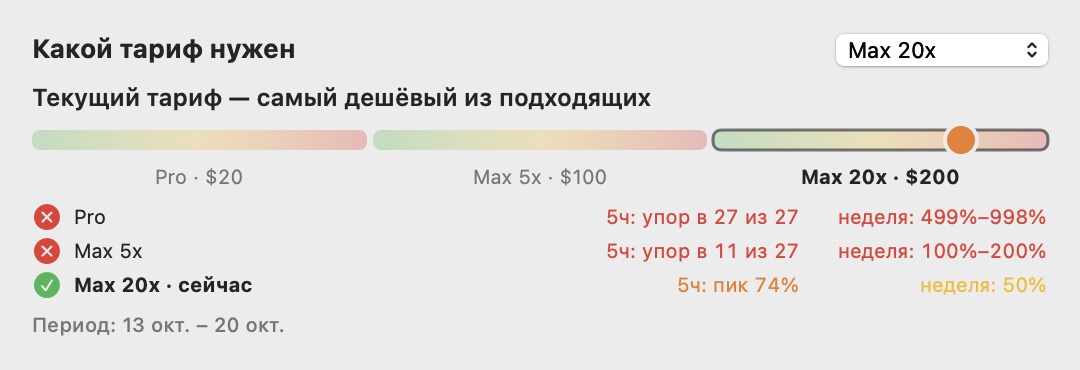
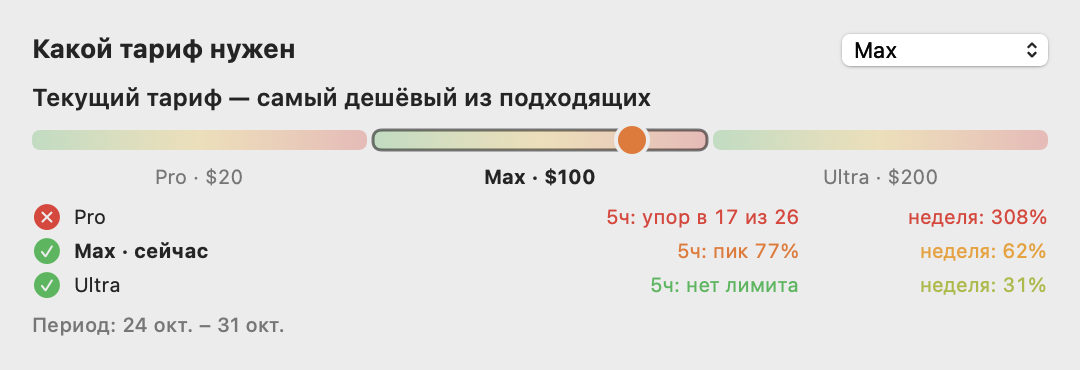
Follow the Ultra plan: no 5-hour row, published weekly sizes, a Fable counter
Anthropic renamed Max 5x to Max and Max 20x to Ultra and lifted the
5-hour limit on verified Ultra accounts, so the usage endpoint now
answers "five_hour": null and the row stayed on a dash. A poll without
that window now drops the row from the menu bar and the panel, and the
row comes back if the API reports the window again.

The plan comparison uses the new names, with raw values kept so settings
and recorded peaks still load. Weekly sizes are published now (Max 5x,
Ultra 10x of Pro), so weekly estimates are single numbers instead of
ranges. Ultra is checked by the week alone. With no 5-hour windows being
recorded, the caption says the comparison rests on old measurements or
on the week, and so does the verdict once none are left.

The weekly limit on Fable comes from the `limits` rows. It gets a row in
the panel and, with no 5-hour limit, the free line in the menu bar.

diff --git a/Sources/ClaudeLimits/PopoverView.swift b/Sources/ClaudeLimits/PopoverView.swift
@@ -140,8 +140,13 @@ private struct LimitRows: View {
     var body: some View {
         VStack(alignment: .leading, spacing: 10) {
             Grid(alignment: .leading, horizontalSpacing: 12, verticalSpacing: 10) {
-                row("Сессия · 5 часов", model.snapshot?.fiveHour, length: LimitWindow.fiveHourLength, skipWeekends: false)
+                if !model.noFiveHourLimit {
+                    row("Сессия · 5 часов", model.snapshot?.fiveHour, length: LimitWindow.fiveHourLength, skipWeekends: false)
+                }
                 row("Неделя", model.snapshot?.sevenDay, length: LimitWindow.sevenDayLength, skipWeekends: model.skipWeekends)
+                if let fable = model.snapshot?.fable {
+                    row("Fable · неделя", fable, length: LimitWindow.sevenDayLength, skipWeekends: model.skipWeekends)
+                }
             }
             Toggle("Недельный темп без выходных", isOn: $model.skipWeekends)
                 .toggleStyle(.checkbox).font(.callout).foregroundStyle(.secondary)
@@ -343,7 +348,7 @@ private struct LiveSessionsView: View {
     }
 }
 
-// MARK: - Plan fit: recorded windows replayed on Pro / Max 5x / Max 20x, or on the Team seats
+// MARK: - Plan fit: recorded windows replayed on Pro / Max / Ultra, or on the Team seats
 
 private struct PlanPicker: View {
     @EnvironmentObject var model: AppModel
@@ -382,20 +387,17 @@ private struct PlanFitView: View {
     }
 
     /// Marker position 0...1: segment of the cheapest plan that fits, offset by how full it would be.
-    private func position(_ r: PlanReport, upper: Bool) -> Double {
+    private func position(_ r: PlanReport) -> Double {
         let n = Double(r.fits.count)
-        for (i, f) in r.fits.enumerated() {
-            let w = upper ? f.worst.upperBound : f.worst.lowerBound
-            if f.fiveOver == 0, w < 100 { return (Double(i) + w / 100) / n }
-        }
+        for (i, f) in r.fits.enumerated() where f.fits { return (Double(i) + f.worst / 100) / n }
         return 1
     }
 
     private func track(_ r: PlanReport) -> some View {
-        let lo = position(r, upper: false), hi = position(r, upper: true)
+        let pos = position(r)
         // Color by how full the marker's own plan would be; past the last plan it is red.
-        let seg = hi * Double(r.fits.count)
-        let color = Palette.color(hi >= 1 ? 1 : seg - seg.rounded(.down))
+        let seg = pos * Double(r.fits.count)
+        let color = Palette.color(pos >= 1 ? 1 : seg - seg.rounded(.down))
         return VStack(spacing: 4) {
             GeometryReader { g in
                 let w = g.size.width
@@ -410,15 +412,10 @@ private struct PlanFitView: View {
                         }
                     }
                     .frame(height: 10)
-                    if hi - lo > 0.005 {
-                        Capsule().fill(color.opacity(0.45))
-                            .frame(width: (hi - lo) * w, height: 6)
-                            .offset(x: lo * w)
-                    }
                     Circle().fill(color)
                         .overlay(Circle().stroke(Color(nsColor: .windowBackgroundColor), lineWidth: 2))
                         .frame(width: 16, height: 16)
-                        .offset(x: min(max(hi * w - 8, 0), w - 16))
+                        .offset(x: min(max(pos * w - 8, 0), w - 16))
                 }
             }
             .frame(height: 16)
@@ -441,16 +438,20 @@ private struct PlanFitView: View {
                 .font(.caption.weight(f.plan == r.current ? .bold : .regular))
             Spacer()
             Group {
-                if f.fiveOver > 0 {
+                if !f.plan.hasSessionLimit {
+                    Text("5ч: нет лимита").foregroundStyle(Palette.color(0))
+                } else if r.fiveWindows == 0 {
+                    Text("5ч: нет данных").foregroundStyle(.secondary)
+                } else if f.fiveOver > 0 {
                     Text("5ч: упор в \(f.fiveOver) из \(r.fiveWindows)").foregroundStyle(Palette.color(1))
                 } else {
                     Text("5ч: пик \(pct(f.fiveWorst))").foregroundStyle(Palette.color(f.fiveWorst / 100))
                 }
-                Text("неделя: \(pct(f.week))").foregroundStyle(Palette.color(f.week.upperBound / 100))
+                Text("неделя: \(pct(f.week))").foregroundStyle(Palette.color(f.week / 100))
                     .frame(width: 118, alignment: .trailing)
                     .help(r.current.isTeam
                           ? "Недельные лимиты мест Team не публикуются: взято то же соотношение, что для 5 часов, Premium = 5× Standard"
-                          : "Недельное соотношение тарифов не публикуется: для Max 20x взято 10–20× Pro, отсюда диапазон")
+                          : "")
             }
             .font(.caption.monospacedDigit())
         }
@@ -458,31 +459,24 @@ private struct PlanFitView: View {
 
     private func verdict(_ r: PlanReport) -> String {
         guard let best = r.cheapest else { return "Не хватает даже \(r.fits.last!.plan.title)" }
-        let maybe = r.fits.first { $0.fiveOver == 0 && $0.week.lowerBound < 100 }?.plan
-        var text: String
         if best.price < r.current.price {
-            text = "Хватило бы \(best.title) — экономия $\(r.current.price - best.price) в месяц"
-        } else if best == r.current {
-            text = "Текущий тариф — самый дешёвый из подходящих"
-        } else {
-            text = "По замерам нужен \(best.title)"
+            let scope = r.fiveWindows == 0 && best.hasSessionLimit ? " по неделе" : ""
+            return "Хватило бы \(best.title)\(scope) — экономия $\(r.current.price - best.price) в месяц"
         }
-        if let maybe, maybe.price < best.price {
-            text += ". Возможно, хватит и \(maybe.title): зависит от недельного лимита, его Anthropic не публикует"
-        }
-        return text
+        return best == r.current ? "Текущий тариф — самый дешёвый из подходящих" : "По замерам нужен \(best.title)"
     }
 
     private func caption(_ r: PlanReport) -> String {
         var text = "Период: \(Fmt.day.string(from: r.from)) – \(Fmt.day.string(from: model.now))"
-        if r.capped { text += ". Лимит доходил до 100% — реальная потребность выше" }
+        if r.capped { text += " · Лимит доходил до 100% — реальная потребность выше" }
+        // Without the limit the API reports no 5-hour usage, so no new windows reach the comparison.
+        if model.noFiveHourLimit {
+            text += " · Без 5-часового лимита окна не замеряются: сравнение \(r.fiveWindows > 0 ? "по старым замерам" : "только по неделе")"
+        }
         return text
     }
 
     private func pct(_ v: Double) -> String { v >= 10 ? "\(Int(v.rounded()))%" : String(format: "%.1f%%", v) }
-    private func pct(_ r: ClosedRange<Double>) -> String {
-        r.upperBound - r.lowerBound < 0.5 ? pct(r.upperBound) : "\(pct(r.lowerBound))–\(pct(r.upperBound))"
-    }
 }
 
 

diff --git a/Sources/ClaudeLimits/Plans.swift b/Sources/ClaudeLimits/Plans.swift
@@ -2,16 +2,17 @@ import Foundation
 
 /// Subscription plans and their limits measured in Pro units.
 /// Team seats are compared only with each other: a member can't move to a personal plan.
+/// Raw values predate the rename of Max 5x to Max and Max 20x to Ultra: settings and `windows.json` keep them.
 enum Plan: String, CaseIterable, Identifiable, Codable {
-    case pro, max5, max20, teamStandard, teamPremium
+    case pro, max = "max5", ultra = "max20", teamStandard, teamPremium
 
     var id: String { rawValue }
 
     var title: String {
         switch self {
         case .pro: return "Pro"
-        case .max5: return "Max 5x"
-        case .max20: return "Max 20x"
+        case .max: return "Max"
+        case .ultra: return "Ultra"
         case .teamStandard: return "Team Standard"
         case .teamPremium: return "Team Premium"
         }
@@ -21,8 +22,8 @@ enum Plan: String, CaseIterable, Identifiable, Codable {
     var price: Int {
         switch self {
         case .pro: return 20
-        case .max5: return 100
-        case .max20: return 200
+        case .max: return 100
+        case .ultra: return 200
         case .teamStandard: return 25
         case .teamPremium: return 125
         }
@@ -33,37 +34,41 @@ enum Plan: String, CaseIterable, Identifiable, Codable {
     /// Plans to compare with: personal plans, or the Team seats.
     var lineup: [Plan] { Self.allCases.filter { $0.isTeam == isTeam } }
 
-    /// 5-hour window size: Anthropic publishes 5x and 20x of Pro for Max, 1.25x and 6.25x for Team seats.
+    /// 5-hour window size: Anthropic publishes 5x of Pro for Max, 1.25x and 6.25x for Team seats.
+    /// Ultra is the 20x that Max 20x had: peaks recorded on it, or before its limit was lifted, read by that size.
     var session: Double {
         switch self {
         case .pro: return 1
-        case .max5: return 5
-        case .max20: return 20
+        case .max: return 5
+        case .ultra: return 20
         case .teamStandard: return 1.25
         case .teamPremium: return 6.25
         }
     }
 
-    /// Weekly limit size. Anthropic publishes no ratio; third-party trackers measure Max 20x
-    /// at about 10x Pro per week, so the range runs from that measurement to the nominal 20x.
+    /// Verified Ultra accounts have no 5-hour limit; only newer accounts keep one until they are verified.
+    var hasSessionLimit: Bool { self != .ultra }
+
+    /// Weekly limit size: Anthropic publishes 5x of Pro for Max and 10x for Ultra.
     /// Team Premium is sold as "5x more usage than Standard", taken for the week as well.
-    var weekly: ClosedRange<Double> {
+    var weekly: Double {
         switch self {
-        case .pro: return 1...1
-        case .max5: return 5...5
-        case .max20: return 10...20
-        case .teamStandard: return 1.25...1.25
-        case .teamPremium: return 6.25...6.25
+        case .pro: return 1
+        case .max: return 5
+        case .ultra: return 10
+        case .teamStandard: return 1.25
+        case .teamPremium: return 6.25
         }
     }
 
     /// Plan from the credentials Claude Code stores: `rateLimitTier` like "default_claude_max_20x",
-    /// `subscriptionType` like "pro", "max" or "team". A Team Premium seat reports the "max_5x" tier.
+    /// which stayed after the rename to Ultra, `subscriptionType` like "pro", "max" or "team".
+    /// A Team Premium seat reports the "max_5x" tier.
     init?(tier: String?, subscription: String?) {
         let t = (tier ?? "").lowercased(), s = (subscription ?? "").lowercased()
         if s == "team" { self = t.contains("max_5x") || t.contains("premium") ? .teamPremium : .teamStandard }
-        else if t.contains("20x") { self = .max20 }
-        else if t.contains("5x") { self = .max5 }
+        else if t.contains("20x") || t.contains("ultra") { self = .ultra }
+        else if t.contains("5x") { self = .max }
         else if t.contains("pro") || s == "pro" { self = .pro }
         else { return nil }
     }
@@ -71,10 +76,7 @@ enum Plan: String, CaseIterable, Identifiable, Codable {
     /// Utilization `u` (%) seen on `from` as it would read on `self`.
     func session(_ u: Double, from: Plan) -> Double { u * from.session / session }
 
-    func weekly(_ u: Double, from: Plan) -> ClosedRange<Double> {
-        if from == self { return u...u }
-        return (u * from.weekly.lowerBound / weekly.upperBound)...(u * from.weekly.upperBound / weekly.lowerBound)
-    }
+    func weekly(_ u: Double, from: Plan) -> Double { u * from.weekly / weekly }
 }
 
 /// Peak utilization of one limit window, identified by its reset time.
@@ -99,13 +101,13 @@ struct PlanReport {
         let fiveOver: Int
         /// Busiest 5-hour window on this plan, %.
         let fiveWorst: Double
-        /// Busiest week on this plan, % (a range: the weekly ratio between plans is not published).
-        let week: ClosedRange<Double>
+        /// Busiest week on this plan, %.
+        let week: Double
         var id: Plan { plan }
 
         /// Worst case across both limits, used to place the plan marker.
-        var worst: ClosedRange<Double> { max(fiveWorst, week.lowerBound)...max(fiveWorst, week.upperBound) }
-        var fits: Bool { fiveOver == 0 && week.upperBound < 100 }
+        var worst: Double { max(fiveWorst, week) }
+        var fits: Bool { fiveOver == 0 && week < 100 }
     }
 
     let current: Plan
@@ -128,12 +130,12 @@ struct PlanReport {
         fiveWindows = five.count
         capped = (five + week).contains { $0.peak >= 100 }
         fits = current.lineup.map { plan in
-            let f = five.map { plan.session($0.peak, from: $0.plan ?? current) }
+            let f = plan.hasSessionLimit ? five.map { plan.session($0.peak, from: $0.plan ?? current) } : []
             let w = week.map { plan.weekly($0.peak, from: $0.plan ?? current) }
             return Fit(plan: plan,
                        fiveOver: f.filter { $0 >= 100 }.count,
                        fiveWorst: f.max() ?? 0,
-                       week: (w.map(\.lowerBound).max() ?? 0)...(w.map(\.upperBound).max() ?? 0))
+                       week: w.max() ?? 0)
         }
     }
 

diff --git a/Sources/ClaudeLimits/UsageAPI.swift b/Sources/ClaudeLimits/UsageAPI.swift
@@ -74,6 +74,8 @@ struct UsageSnapshot: Codable, Equatable {
     var fetchedAt: Date
     var fiveHour: LimitWindow?
     var sevenDay: LimitWindow?
+    /// Weekly limit on Fable, on plans that have one: percent of its own size, a part of the weekly limit.
+    var fable: LimitWindow?
     /// Share of the weekly usage that came from Claude Code (0...1), if the API reports it.
     var claudeCodeShare: Double?
     /// Plan from the Claude Code credentials, if they name it.
@@ -275,6 +277,7 @@ enum UsageAPI {
         return UsageSnapshot(fetchedAt: Date(),
                              fiveHour: window(obj["five_hour"]),
                              sevenDay: window(obj["seven_day"]),
+                             fable: fableWindow(obj["limits"]),
                              claudeCodeShare: share,
                              plan: creds.plan)
     }
@@ -282,6 +285,15 @@ enum UsageAPI {
     private static func window(_ any: Any?) -> LimitWindow? {
         guard let d = any as? [String: Any], let u = d["utilization"] as? Double else { return nil }
         return LimitWindow(utilization: u, resetsAt: (d["resets_at"] as? String).flatMap(parseDate))
+    }
+
+    /// The weekly row scoped to Fable in `limits`: unlike `seven_day`, it has no field of its own.
+    private static func fableWindow(_ any: Any?) -> LimitWindow? {
+        guard let row = (any as? [[String: Any]])?.first(where: { r in
+            let model = (r["scope"] as? [String: Any])?["model"] as? [String: Any]
+            return r["kind"] as? String == "weekly_scoped" && (model?["display_name"] as? String)?.hasPrefix("Fable") == true
+        }), let u = row["percent"] as? Double else { return nil }
+        return LimitWindow(utilization: u, resetsAt: (row["resets_at"] as? String).flatMap(parseDate))
     }
 
     static func parseDate(_ s: String) -> Date? {

diff --git a/Sources/ClaudeLimits/AppModel.swift b/Sources/ClaudeLimits/AppModel.swift
@@ -130,7 +130,7 @@ final class AppModel: ObservableObject {
             rejectedToken = nil
             activityAtFetch = activity ?? .distantPast
             store.append(snap)
-            Log.write("ok: 5h \(Fmt.percent(snap.fiveHour?.utilization)) reset \(Self.stamp(snap.fiveHour?.resetsAt)), week \(Fmt.percent(snap.sevenDay?.utilization)) reset \(Self.stamp(snap.sevenDay?.resetsAt)), cc share \(snap.claudeCodeShare.map { String(format: "%.2f", $0) } ?? "-")")
+            Log.write("ok: 5h \(Fmt.percent(snap.fiveHour?.utilization)) reset \(Self.stamp(snap.fiveHour?.resetsAt)), week \(Fmt.percent(snap.sevenDay?.utilization)) reset \(Self.stamp(snap.sevenDay?.resetsAt)), fable \(Fmt.percent(snap.fable?.utilization)), cc share \(snap.claudeCodeShare.map { String(format: "%.2f", $0) } ?? "-")")
         } catch UsageError.rateLimited(let retryAfter) {
             let until = Date().addingTimeInterval(max(retryAfter ?? 0, Self.pollInterval * 2))
             backoffUntil = until
@@ -273,6 +273,9 @@ final class AppModel: ObservableObject {
     }
 
     // MARK: Derived data
+
+    /// A poll came back without the 5-hour window: the plan has no such limit (verified Ultra accounts).
+    var noFiveHourLimit: Bool { snapshot != nil && snapshot?.fiveHour == nil }
 
     /// Start of the current weekly window (reset time minus 7 days), or 7 days ago.
     var weekStart: Date {

diff --git a/Sources/ClaudeLimits/StatusItemController.swift b/Sources/ClaudeLimits/StatusItemController.swift
@@ -76,8 +76,12 @@ final class StatusItemController: NSObject {
         let gray = NSColor.secondaryLabelColor
 
         // Columns: label | percent (right-aligned, fixed width) | reset time.
-        let rows = [("5ч", s?.fiveHour, LimitWindow.fiveHourLength, false, CGFloat(12)),
-                    ("7д", s?.sevenDay, LimitWindow.sevenDayLength, model.skipWeekends, CGFloat(2))]
+        // Two rows fit: without a 5-hour limit its place goes to Fable, or the weekly row sits alone in the middle.
+        typealias Row = (String, LimitWindow?, TimeInterval, Bool, CGFloat)
+        let fable: Row? = s?.fable.map { ("Fable", $0, LimitWindow.sevenDayLength, model.skipWeekends, 12) }
+        let top: Row? = model.noFiveHourLimit ? fable : ("5ч", s?.fiveHour, LimitWindow.fiveHourLength, false, 12)
+        let week: Row = ("7д", s?.sevenDay, LimitWindow.sevenDayLength, model.skipWeekends, top == nil ? 7 : 2)
+        let rows = [top, week].compactMap { $0 }
             .map { ($0.0, $0.1?.current(at: model.now), $0.2, $0.3, $0.4) }.map { label, w, length, skip, baseline in
             let color: NSColor = w.map { Palette.nsColor($0.strain(at: model.now, length: length, skipWeekends: skip)) } ?? gray
             let time = w?.resetsAt.map { Fmt.resetClock($0, now: model.now) } ?? ""

diff --git a/Sources/ClaudeLimits/Snapshot.swift b/Sources/ClaudeLimits/Snapshot.swift
@@ -99,11 +99,12 @@ enum Snapshot {
             t.addTimeInterval(1800)
         }
 
-        let model = AppModel(store: SampleStore(samples: samples, plan: .max20))
-        model.planChoice = .max20
+        let model = AppModel(store: SampleStore(samples: samples, plan: .max))
+        model.planChoice = .max
         model.snapshot = UsageSnapshot(fetchedAt: now,
                                        fiveHour: LimitWindow(utilization: 42, resetsAt: fiveReset),
                                        sevenDay: LimitWindow(utilization: 61, resetsAt: weekReset),
+                                       fable: LimitWindow(utilization: 38, resetsAt: weekReset),
                                        claudeCodeShare: 0.9)
 
         let titles = [("Рефакторинг API платежей", "payments-api"), ("Миграция на Swift 6", "ios-app"),

diff --git a/README.md b/README.md
@@ -18,7 +18,7 @@
 - **Не пропустите, что Claude остановился.** Сессия, которая задала вопрос, просит разрешения или закончила ответ, подсвечивается оранжевым, пока вы на неё не посмотрите.
 - **Переход в один клик.** Нужное окно VS Code и вкладка сессии, нужная вкладка Терминала или iTerm2.
 - **Куда уходит лимит.** Тепловая карта расхода за неделю по часам и топ самых дорогих сессий.
-- **Какой тариф вам нужен.** История вашего расхода, пересчитанная на Pro, Max 5x и Max 20x.
+- **Какой тариф вам нужен.** История вашего расхода, пересчитанная на Pro, Max и Ultra.
 
 ## Установка
 
@@ -73,6 +73,8 @@ cd claude-limits-bar
 | ✓ **4** серым | остальные сессии — показывается вместо 🔔, когда никто не ждёт |
 | `5ч 42% 18:21` | потрачено 42% 5-часового окна, сброс в 18:21 |
 | `7д 61% Пт 11:08` | потрачено 61% недельного лимита, сброс в пятницу в 11:08 |
+
+На тарифе Ultra у подтверждённых аккаунтов 5-часового лимита нет: API его не отдаёт, и строка `5ч` пропадает из значка и панели. В значке её место занимает `Fable 38% Пт 11:08` — сколько потрачено из недельного лимита на Fable. Он входит в общий недельный, у него свой счёт процентов и в панели своя строка «Fable · неделя», на любом тарифе, где API его отдаёт.
 
 Цвет процента — не сколько потрачено, а укладываешься ли в ровный темп до конца текущего часа (5-часовое окно, 20% в час) или дня (неделя, 100% / 7 в день). Часы и дни считаются целыми от начала окна, так что сразу после сброса первый час или день уже доступен и цвет зелёный. До полшага ниже этого лимита — зелёный, ближе — желтеет, лимит достигнут — красный. В панели под временем сброса написано «до 21% · лимит 29% до Чт 21:00»: до первого числа цвет зелёный, второе — сколько можно потратить до конца часа или дня; засечка на полосе стоит там же. Галочка «Недельный темп без выходных» в панели считает для недели только будни: суббота и воскресенье не входят в длину недели, неделя делится на 5 будних дней, и в выходные лимит не растёт. Столбец сессий виден, только пока запущен хотя бы один Claude Code. Клик по значку открывает панель.
 
@@ -137,14 +139,15 @@ cd claude-limits-bar
   </picture>
 </p>
 
-Приложение запоминает пик каждого 5-часового окна и каждой недели. По ним за последние 28 дней видно, сколько раз вы упёрлись бы в лимит на Pro, Max 5x и Max 20x и какой тариф самый дешёвый из подходящих. Ползунок показывает, где вы сейчас среди тарифов. Ваш тариф определяется автоматически, его можно сменить в списке справа. На подписке Team сравниваются места Team — Standard и Premium: перейти с места Team на личный тариф нельзя.
+Приложение запоминает пик каждого 5-часового окна и каждой недели. По ним за последние 28 дней видно, сколько раз вы упёрлись бы в лимит на Pro, Max и Ultra и какой тариф самый дешёвый из подходящих. У Ultra нет 5-часового лимита, поэтому он проверяется только по неделе. Ползунок показывает, где вы сейчас среди тарифов. Ваш тариф определяется автоматически, его можно сменить в списке справа. На подписке Team сравниваются места Team — Standard и Premium: перейти с места Team на личный тариф нельзя.
 
 ## Ограничения
 
 - **Расход по логам — оценка.** Тепловая карта и топ сессий считают токены из локальных логов Claude Code по ценам API и пересчитывают их в долю недельного лимита. Чаты на claude.ai и работа на других компьютерах в логах не видны.
 - **Запрос разрешения в VS Code и Claude Desktop — догадка.** Эти приложения показывают запрос у себя и никому о нём не сообщают. Поэтому «ждёт разрешения?» ставится, когда вызов инструмента висит дольше 10 секунд без каких-либо признаков работы. Чтобы долгий вызов — MCP-инструмент, который ждёт CI, или медленная загрузка страницы — не принимался за запрос, для VS Code проверяется лог расширения (`~/Library/Application Support/Code/logs/<время запуска>/window<номер>/exthost/Anthropic.claude-code/`): вызов, который там уже отмечен как запущенный, разрешение получил. Терминальный Claude Code сообщает о диалогах сам, там угадывать не нужно.
 - **Claude Desktop и терминалы кроме Терминала и iTerm2** — по клику приложение только выходит вперёд, а отметка не снимается сама, когда окно впереди: какая именно сессия на экране, оттуда не узнать.
-- **Недельные лимиты тарифов Anthropic не публикует.** Для 5-часового окна Max 5x и Max 20x — ровно ×5 и ×20 от Pro, а для недели у Max 20x взято 10–20× Pro, поэтому недельная оценка — диапазон. Для мест Team опубликовано только 5-часовое окно — Standard 1,25× и Premium 6,25× от Pro; для недели взято то же соотношение.
+- **Без 5-часового лимита нет и 5-часовых замеров.** На Ultra API не отдаёт это окно, поэтому Pro и Max сравниваются с вашим расходом только по замерам, сделанным до снятия лимита. Когда они выйдут за 28 дней, сравнение пойдёт только по неделе.
+- **Сравнение тарифов опирается на множители Anthropic.** Max — ×5 от Pro и за 5 часов, и за неделю, Ultra — ×10 за неделю. Для мест Team опубликовано только 5-часовое окно — Standard 1,25× и Premium 6,25× от Pro; для недели взято то же соотношение.
 
 <details>
 <summary><b>Как это работает</b></summary>
